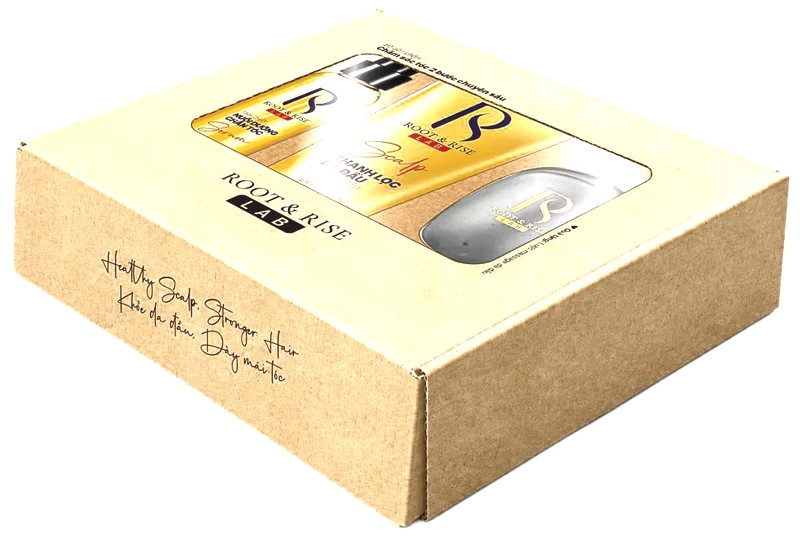
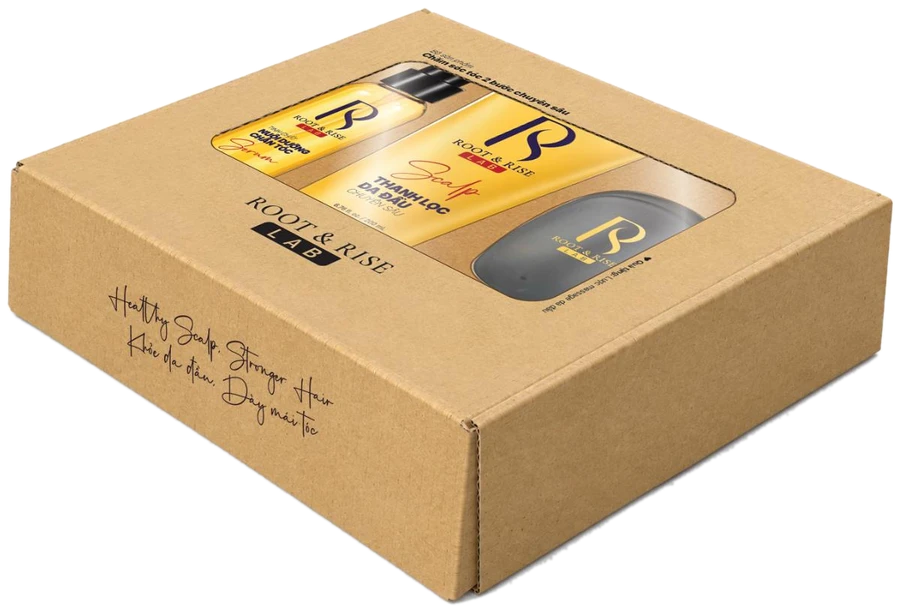
Sua lai dung ban v12 da duyet: bo carousel + khoi Buoc 1/2 rieng, dung anh hop cat nen that, phong to khung anh + huy hieu

diff --git a/san-pham.js b/san-pham.js
@@ -293,14 +293,11 @@
             /* ảnh hộp: mặt có cửa sổ thấy sản phẩm ↔ góc nghiêng — tự đổi qua lại, không xoay ảnh phẳng
                (xem rootlab-landing/doi-chai-khong-duoc-xoay.md — lùi mờ ra xa rồi tiến rõ lại gần) */
             const hopMat1 = pr.boxPhoto || 'hop-qua-2buoc.webp', hopMat2 = pr.boxPhotoGoc || 'hop-qua-goc-nghieng.webp';
-            /* dải chai chạy trang trí — chỉ có ở hộp quà, không có khi xem riêng 1 chai qua mã QR */
-            const carDs = k.ds.concat(k.ds).map((p, i) => p.photo
-                ? `<img src="${h(p.photo)}" alt="" style="--nghieng:${(i % 2 ? -1 : 1) * (7 + (i * 5) % 10)}deg;--nhip:${9 + (i % 3) * 2}s;--tre:${(i * -1.4).toFixed(1)}s">`
-                : '').join('');
+            /* v12: một khối ảnh lớn duy nhất tự đổi mặt — không còn dải chai chạy trang trí bên dưới nữa */
             const dau = `
                 <div class="rp-hero">
+                    ${pr.boxBadge ? medal(pr.boxBadge) : ''}
                     <div class="rp-hero-stage">
-                        ${pr.boxBadge ? medal(pr.boxBadge) : ''}
                         <span class="rp-brand"><img src="r-logo.png" alt=""></span>
                         <div class="rp-hero-img">
                             <img class="hf" src="${h(hopMat1)}" alt="">
@@ -308,7 +305,6 @@
                         </div>
                         <div class="rp-hero-dots"><i class="on"></i><i></i></div>
                     </div>
-                    <div class="rp-carousel" aria-hidden="true"><div class="rp-car-track">${carDs}</div></div>
                 </div>
                 <span class="rp-nhan"><svg class="rp-vr" viewBox="0 0 24 24" aria-hidden="true" focusable="false"><path fill="#1877f2" d="M12.0 3.6Q15.5 -1.1 16.2 4.7Q21.6 2.4 19.3 7.8Q25.1 8.5 20.4 12.0Q25.1 15.5 19.3 16.2Q21.6 21.6 16.2 19.3Q15.5 25.1 12.0 20.4Q8.5 25.1 7.8 19.3Q2.4 21.6 4.7 16.2Q-1.1 15.5 3.6 12.0Q-1.1 8.5 4.7 7.8Q2.4 2.4 7.8 4.7Q8.5 -1.1 12.0 3.6Z"/><path fill="#fff" d="M10.6 15.4 7.4 12.2l1.5-1.5 1.7 1.7 4.5-4.5 1.5 1.5z"/></svg><b>${h(t.chinhHang)}</b></span>
                 <div class="rp-ten rp-ten-bo">
@@ -317,15 +313,9 @@
                     ${pr.comboNew ? `<div class="rp-gia">${h(pr.comboNew)}${pr.comboOld ? ` <s>${h(pr.comboOld)}</s>` : ''}</div>` : ''}
                     <p class="rp-tang">★ ${h(pr.boxGift || t.tang)}</p>
                 </div>`;
-            /* không còn tab Bước 1/Bước 2 — hiện luôn ảnh + tên từng chai nối tiếp nhau,
-               còn phần thông tin chi tiết (công dụng/cách dùng/thành phần/chứng nhận) gộp
-               chung vào một mục "xem đầy đủ" đóng sẵn, hé lộ vài dòng mờ dần bên dưới. */
-            const than = k.ds.map((p, i) => `
-                <div class="rp-buoc" data-i="${i}">
-                    <p class="rp-buoc-nhan">${h(t.buoc)} ${i + 1}</p>
-                    ${dauChai(p, false, false).replace('id="rp-td"', '')}
-                </div>`).join('') + khoiChaiGop(k.ds);
-            return { tieuDe: t.hopQua, sanPham: T.vi.hopQua, html: dau + than, dich: d.key };
+            /* v12: không còn tab Bước 1/Bước 2, không còn hiện riêng ảnh+tên từng chai nữa —
+               đi thẳng từ giá xuống một mục "xem đầy đủ" duy nhất, đóng sẵn, hé lộ vài dòng mờ dần. */
+            return { tieuDe: t.hopQua, sanPham: T.vi.hopQua, html: dau + khoiChaiGop(k.ds), dich: d.key };
         }
 
         function form(sanPham) {
@@ -498,21 +488,21 @@
     .rp-anh img{max-height:100%;max-width:100%;object-fit:contain;filter:drop-shadow(0 10px 14px rgba(80,55,20,.25))}
     .rp-anh-bo{flex-basis:150px;height:130px;padding:0;background:none}
     .rp-anh-bo img{border-radius:12px;filter:drop-shadow(0 12px 18px rgba(80,55,20,.28))}
-    /* ---- khối ảnh lớn của hộp quà: hộp tự đổi mặt, dải chai chạy trang trí ---- */
-    .rp-hero{margin:-2px -2px 16px;border-radius:20px;overflow:hidden;background:radial-gradient(120% 130% at 50% 12%,#fff8ea 0%,#f6e9cc 55%,#ecdcb4 100%)}
-    .rp-hero-stage{position:relative;height:220px;display:flex;align-items:center;justify-content:center;perspective:1200px}
+    /* ---- khối ảnh lớn của hộp quà: hộp tự đổi mặt (v12) ---- */
+    .rp-hero{position:relative;margin:-26px -26px 16px}
+    .rp-hero-stage{position:relative;height:300px;border-radius:20px;overflow:hidden;background:radial-gradient(120% 130% at 50% 12%,#fff8ea 0%,#f6e9cc 55%,#ecdcb4 100%);display:flex;align-items:center;justify-content:center;perspective:1200px}
     .rp-hero-img{position:relative;width:100%;height:100%;display:flex;align-items:center;justify-content:center}
     .rp-hero-img img{position:absolute;max-height:82%;max-width:74%;object-fit:contain;
       filter:drop-shadow(0 16px 16px rgba(60,40,10,.25));will-change:transform,opacity;
       transition:transform 1.1s cubic-bezier(.45,0,.2,1),opacity 1.1s cubic-bezier(.45,0,.2,1)}
     .rp-hero-img img.hf{opacity:1;transform:translateZ(0) scale(1)}
-    .rp-hero-img img.hb{opacity:0;transform:translateZ(-220px) scale(.84)}
-    .rp-hero.lat .rp-hero-img img.hf{opacity:0;transform:translateZ(-220px) scale(.84)}
+    .rp-hero-img img.hb{opacity:0;transform:translateZ(-260px) scale(.82)}
+    .rp-hero.lat .rp-hero-img img.hf{opacity:0;transform:translateZ(-260px) scale(.82)}
     .rp-hero.lat .rp-hero-img img.hb{opacity:1;transform:translateZ(0) scale(1)}
     .rp-hero-dots{position:absolute;bottom:9px;left:0;right:0;display:flex;justify-content:center;gap:6px;z-index:2}
     .rp-hero-dots i{width:6px;height:6px;border-radius:50%;background:#d8c79a;transition:background .3s,transform .3s}
     .rp-hero-dots i.on{background:#5c3c0a;transform:scale(1.25)}
-    .rp-medal{position:absolute;top:-6px;left:8px;z-index:3;width:46px;height:69px;filter:drop-shadow(0 6px 10px rgba(50,30,0,.4))}
+    .rp-medal{position:absolute;top:8px;left:10px;z-index:4;width:64px;height:96px;filter:drop-shadow(0 6px 10px rgba(50,30,0,.4))}
     .rp-medal-svg{width:100%;height:100%;display:block;overflow:visible}
     .rp-spark{position:absolute;color:#fff9dd;font-size:9px;line-height:1;pointer-events:none;
       text-shadow:0 0 4px #fff3c4,0 0 8px #ffd77a;animation:rpTwinkle 1.8s ease-in-out infinite}
@@ -525,13 +515,6 @@
     .rp-brand{position:absolute;bottom:9px;right:10px;z-index:2;width:32px;height:32px;border-radius:50%;background:#fff;
       display:flex;align-items:center;justify-content:center;box-shadow:0 3px 8px rgba(30,20,10,.18);overflow:hidden}
     .rp-brand img{width:46%;height:64%;object-fit:contain}
-    .rp-carousel{position:relative;height:64px;overflow:hidden;background:rgba(255,255,255,.35);border-top:1px solid rgba(140,105,40,.15)}
-    .rp-car-track{position:absolute;top:0;left:0;height:100%;display:flex;align-items:center;gap:34px;padding:0 17px;
-      animation:rpCarRun 16s linear infinite}
-    .rp-car-track img{height:52px;width:auto;object-fit:contain;filter:drop-shadow(0 6px 8px rgba(60,40,10,.2));
-      transform:rotate(var(--nghieng,0deg));animation:rpCarXoay var(--nhip,10s) linear infinite;animation-delay:var(--tre,0s)}
-    @keyframes rpCarRun{from{transform:translateX(0)}to{transform:translateX(-50%)}}
-    @keyframes rpCarXoay{from{transform:rotate(var(--nghieng,0deg))}to{transform:rotate(calc(var(--nghieng,0deg) + 360deg))}}
     .rp-ten-bo{padding:14px 2px 0}
     .rp-ten h2{margin:0 0 4px;font-size:22px;line-height:1.25;letter-spacing:-.01em}
     .rp-ten p{margin:0;color:#6b6358;font-size:14px;line-height:1.45}
@@ -619,14 +602,14 @@
       .rp-anh{flex-basis:88px;height:140px}
       .rp-anh-bo{flex-basis:120px;height:104px}
       .rp-ten h2{font-size:19px}
-      .rp-hero-stage{height:180px}
-      .rp-medal{width:40px;height:60px;top:-4px;left:6px}
+      .rp-hero{margin:-22px -18px 16px}
+      .rp-hero-stage{height:240px}
+      .rp-medal{width:52px;height:78px;top:6px;left:8px}
       .rp-brand{width:28px;height:28px}
     }
     @media (prefers-reduced-motion:reduce){
       .rp-nen,.rp-hop{transition:none}
       .rp-hero-img img{transition:none}
-      .rp-car-track,.rp-car-track img{animation:none}
       .rp-spark,.rp-medal-sweep{animation:none;opacity:0}
     }
     `;
